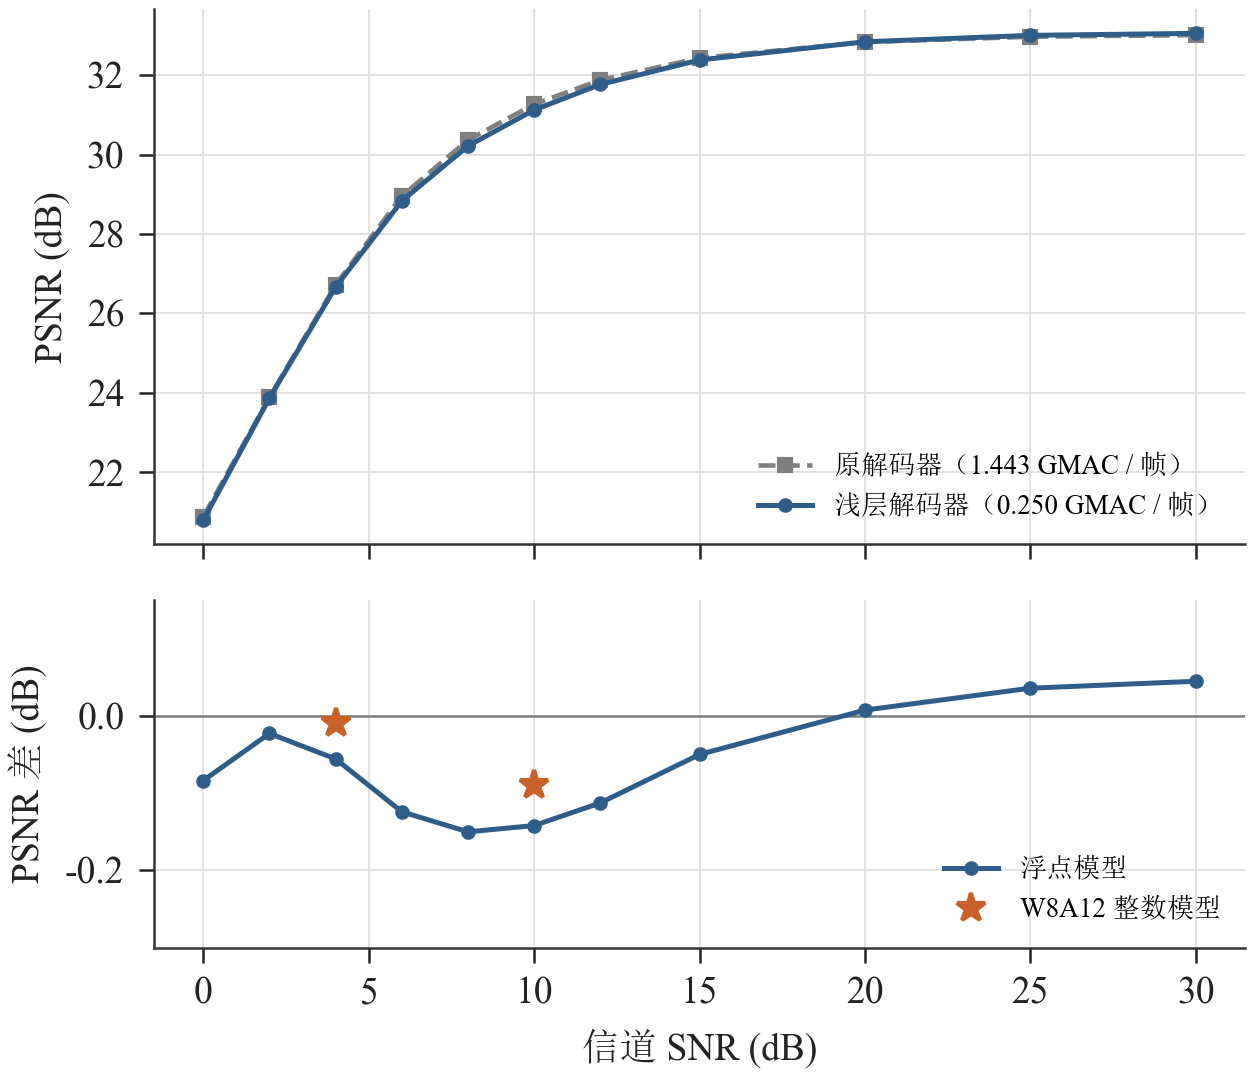
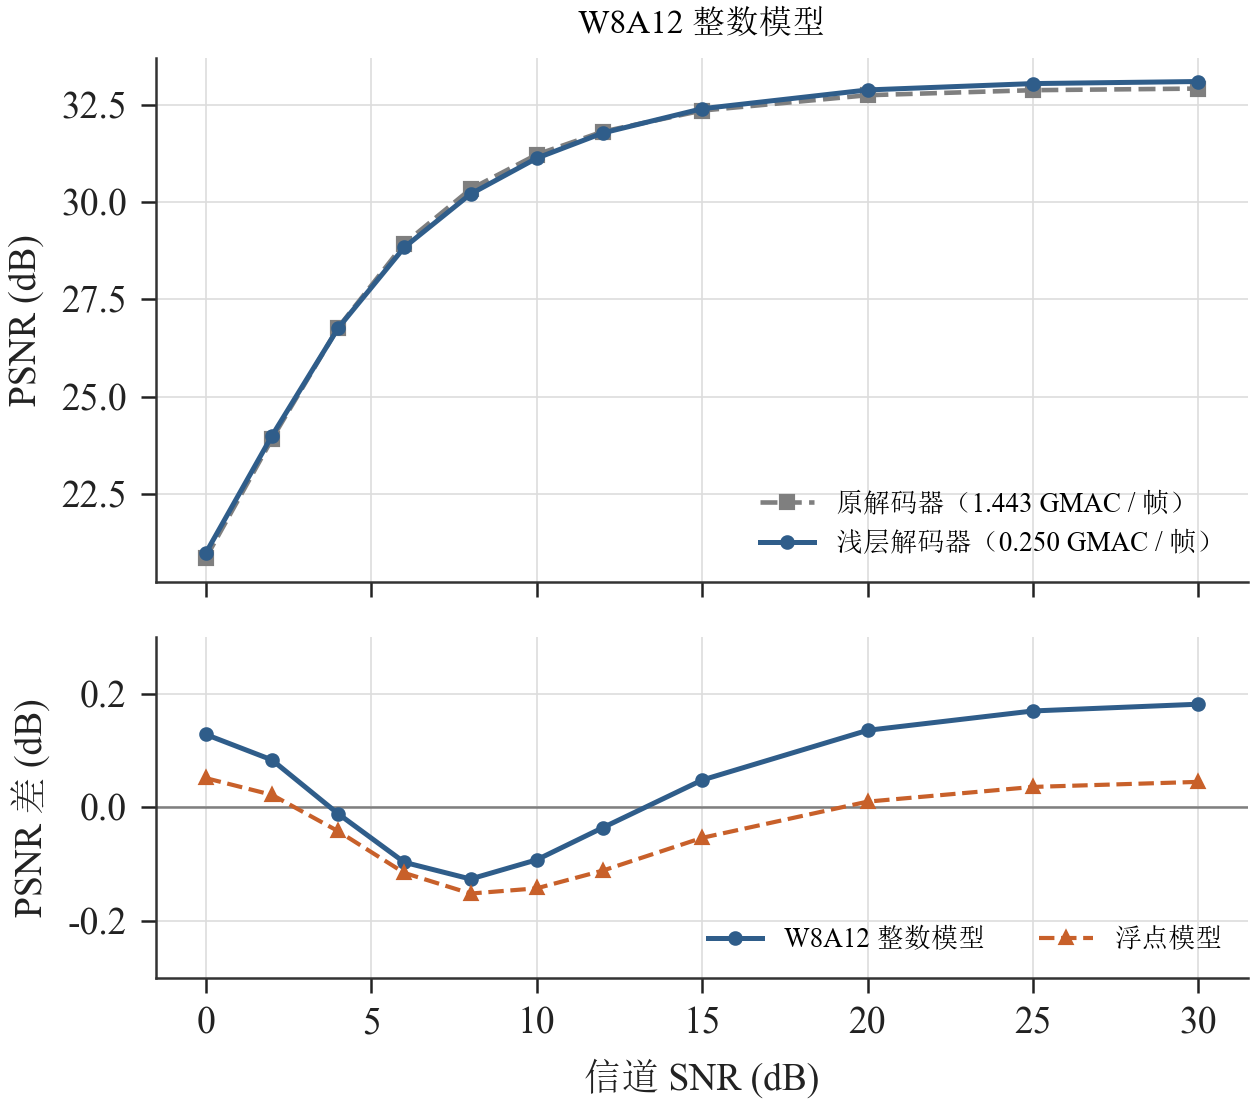
Shallow decoder write-up: W8A12 integer PSNR-SNR sweep (0-30 dB) for both decoders
int_sweep.py evaluates the integer and float models of the shallow and the deployed decoder on the same noise;
figure 5 now shows the integer curves and the integer / float differences over SNR.

diff --git a/src/model/shallow_analysis/report_figs.py b/src/model/shallow_analysis/report_figs.py
@@ -1,6 +1,7 @@
 """Figures and numbers of the shallow-decoder write-up (report/notes/shallow_decoder_design.md), final model.
 
-    python report_figs.py --ckpt data/model_shallow/checkpoint/best.pt --cache <data/cache> --sweep <run>/sweep.json
+    python int_sweep.py ... --out report/notes/figures/shallow_decoder/int_sweep.json   (first)
+    python report_figs.py --ckpt data/model_shallow/checkpoint/best.pt --cache <data/cache>
 -> report/notes/figures/shallow_decoder/{interp_stages,pwl_final,noise_stages,psnr_snr_shallow}.png and the numbers
    printed (path statistics incl. the encoder, PWL shape statistics, stage deviation SNRs).
 """
@@ -154,30 +155,24 @@ def fig_noise(enc, dec, val, dev):
         print(f'noise stages {snr:g} dB: ' + ', '.join(f'{k} {res[snr][k] - res[snr]["input"]:+.2f}' for k in ks))
 
 
-# W8A12 integer PSNR, DIV2K validation (shallow, deployed), quant_shallow.py on the final checkpoint (table 4 of the
-# write-up); same noise for both
-INT_DIV2K = {4.0: (26.77, 26.78), 10.0: (31.13, 31.22)}
-
-
-def fig_psnr(sweep_path, manifest):
-    d = json.load(open(sweep_path, encoding='utf-8'))['val_div2k']
-    snr = [float(k) for k in d if k != 'Infinity']
-    sh = np.array([d[k]['shallow'] for k in d if k != 'Infinity'])
-    dp = np.array([d[k]['deployed'] for k in d if k != 'Infinity'])
-    fig, (ax, bx) = plt.subplots(2, 1, figsize=(4.4, 3.8), dpi=300, sharex=True,
+def fig_psnr(sweep_path):
+    """sweep_path: int_sweep.json (int_sweep.py): float and W8A12 integer PSNR of both models, same noise"""
+    d = json.load(open(sweep_path, encoding='utf-8'))['psnr_db']
+    snr = np.array([float(k) for k in d])
+    g = lambda key: np.array([d[k][key] for k in d])
+    fig, (ax, bx) = plt.subplots(2, 1, figsize=(4.4, 3.9), dpi=300, sharex=True,
                                  gridspec_kw={'height_ratios': [2, 1.3]})
-    ax.plot(snr, dp, color=S.GRAY, ls='--', marker='s', ms=3, lw=1.1, label='原解码器（1.443 GMAC / 帧）')
-    ax.plot(snr, sh, color=S.BLUE, marker='o', ms=2.5, lw=1.2, label='浅层解码器（0.250 GMAC / 帧）')
+    ax.plot(snr, g('dep_int'), color=S.GRAY, ls='--', marker='s', ms=3, lw=1.1, label='原解码器（1.443 GMAC / 帧）')
+    ax.plot(snr, g('int'), color=S.BLUE, marker='o', ms=2.5, lw=1.2, label='浅层解码器（0.250 GMAC / 帧）')
     ax.set_ylabel('PSNR (dB)')
+    ax.set_title('W8A12 整数模型', fontsize=8)
     ax.legend(fontsize=6.5, loc='lower right')
     bx.axhline(0, color=S.GRAY, lw=0.6)
-    bx.plot(snr, sh - dp, color=S.BLUE, marker='o', ms=2.5, lw=1.2, label='浮点模型')
-    k = sorted(INT_DIV2K)
-    bx.plot(k, [INT_DIV2K[s][0] - INT_DIV2K[s][1] for s in k], color=S.ORANGE, marker='*', ms=7, ls='none',
-            label='W8A12 整数模型')
-    bx.set_ylim(-0.3, 0.15)
+    bx.plot(snr, g('int') - g('dep_int'), color=S.BLUE, marker='o', ms=2.5, lw=1.2, label='W8A12 整数模型')
+    bx.plot(snr, g('float') - g('dep_float'), color=S.ORANGE, marker='^', ms=2.5, lw=1.0, ls='--', label='浮点模型')
+    bx.set_ylim(-0.3, 0.3)
     bx.set_xlabel('信道 SNR (dB)'); bx.set_ylabel('PSNR 差 (dB)')
-    bx.legend(fontsize=6.5, loc='lower right')
+    bx.legend(fontsize=6.5, loc='lower right', ncol=2)
     S.finish(ax); S.finish(bx)
     fig.tight_layout(); fig.savefig(OUT / 'psnr_snr_shallow.png', bbox_inches='tight', pad_inches=0.03)
 
@@ -186,7 +181,7 @@ def main():
     ap = argparse.ArgumentParser()
     ap.add_argument('--ckpt', required=True)
     ap.add_argument('--cache', required=True)
-    ap.add_argument('--sweep', required=True, help='sweep.json of the training run (float PSNR vs SNR)')
+    ap.add_argument('--sweep', default=str(OUT / 'int_sweep.json'), help='int_sweep.py output (float and W8A12 PSNR vs SNR)')
     ap.add_argument('--manifest', default=str(REPO / 'data' / 'model_shallow' / 'manifest.json'))
     a = ap.parse_args()
     S.apply()
@@ -197,7 +192,7 @@ def main():
     fig_interp(enc, dec, val, dev)
     fig_pwl(enc, dec, val, dev)
     fig_noise(enc, dec, val, dev)
-    fig_psnr(a.sweep, json.load(open(a.manifest, encoding='utf-8')))
+    fig_psnr(a.sweep)
     print('figures in', OUT)
 
 

diff --git a/src/model/shallow_analysis/int_sweep.py b/src/model/shallow_analysis/int_sweep.py
@@ -1,0 +1,50 @@
+"""PSNR vs channel SNR of the W8A12 integer models (shallow encoder + decoder, and the deployed model) on the DIV2K
+validation crops, same noise for both (quant_shallow.evaluate), plus the float values of the same runs.
+
+    python int_sweep.py --ckpt data/model_shallow/checkpoint/best.pt --cache <data/cache> --kodak <data/Kodak>
+        --out report/notes/figures/shallow_decoder/int_sweep.json
+"""
+import argparse
+import json
+import sys
+from pathlib import Path
+
+import torch
+
+sys.path.insert(0, str(Path(__file__).resolve().parents[1]))
+import int_ref as IR                                           # noqa: E402
+import quant_shallow as Q                                      # noqa: E402
+
+SNRS = [0, 2, 4, 6, 8, 10, 12, 15, 20, 25, 30]
+
+
+def main():
+    ap = argparse.ArgumentParser()
+    ap.add_argument('--ckpt', required=True)
+    ap.add_argument('--cache', required=True)
+    ap.add_argument('--kodak', required=True)
+    ap.add_argument('--out', required=True)
+    ap.add_argument('--snr', type=float, nargs='*', default=SNRS)
+    a = ap.parse_args()
+    torch.backends.cudnn.allow_tf32 = False; torch.backends.cuda.matmul.allow_tf32 = False
+    dev = torch.device('cuda')
+    dep, enc, dec, _ = Q.load_models(a.ckpt, dev)
+    Q.IntB.PWL_FORM = 'knot'
+    st = Q.calibrate(enc, dec, a.cache, dev)
+    sc = Q.pwl_input_scales(IR.scales_from_stats(st, 1.5, 12, {'sd.igdn': 2.0}), st, 12)
+    st_dep = Q.calibrate_deployed(dep, a.cache, dev)
+    sc_dep = IR.scales_from_stats(st_dep, 1.5, 12, {'dec.9.igdn': 2.0})
+    val, _ = Q.load_images(a.cache, a.kodak)
+    res = {}
+    for snr in a.snr:
+        r, _ = Q.evaluate(val, snr, dev, enc, dec, sc, st, dep, sc_dep, st_dep, 8, 12)
+        res[str(snr)] = {k: round(v, 4) for k, v in r.items()}
+        print(f"{snr:5g} dB: shallow float {r['float']:.2f} int {r['int']:.2f} | deployed float {r['dep_float']:.2f} "
+              f"int {r['dep_int']:.2f} | int diff {r['int'] - r['dep_int']:+.2f}", flush=True)
+    Path(a.out).write_text(json.dumps({'dataset': 'DIV2K validation, 100 centre crops', 'psnr_db': res}, indent=1),
+                           encoding='utf-8')
+    print('written', a.out)
+
+
+if __name__ == '__main__':
+    main()

diff --git a/report/notes/shallow_decoder_design.md b/report/notes/shallow_decoder_design.md
@@ -99,11 +99,11 @@ $$
 | DIV2K验证集 | 4 dB | 26.77 | 26.78 | −0.01 |
 | Kodak | 4 dB | 28.17 | 28.32 | −0.15 |
 
-浅层解码器的量化损失（浮点减整数）在±0.03 dB以内，原解码器为0.05～0.06 dB。浮点模型在各信噪比下与原解码器的对比见图5：20 dB以上两者持平，15 dB以下相差0.02～0.15 dB。
+在0～30 dB范围内，浅层解码器整数模型与浮点模型相差−0.01～+0.10 dB，原解码器整数模型比浮点模型低0～0.10 dB，信噪比越高损失越大。两种解码器的整数模型对比见图5：4～12 dB浅层解码器低0.01～0.13 dB，15 dB以上和2 dB以下高0.05～0.18 dB。
 
 ![PSNR随信道SNR的变化](figures/shallow_decoder/psnr_snr_shallow.png)
 
-图5　PSNR随信道SNR的变化（DIV2K验证集100张，AWGN）。上：两种解码器的浮点模型；下：浅层解码器减原解码器的PSNR差，星号为两者W8A12整数模型之差。
+图5　PSNR随信道SNR的变化（DIV2K验证集100张，AWGN，两种解码器使用同一组噪声）。上：W8A12整数模型；下：浅层解码器减原解码器的PSNR差，实线为整数模型，虚线为浮点模型。
 
 ## 4. 硬件实现
 
